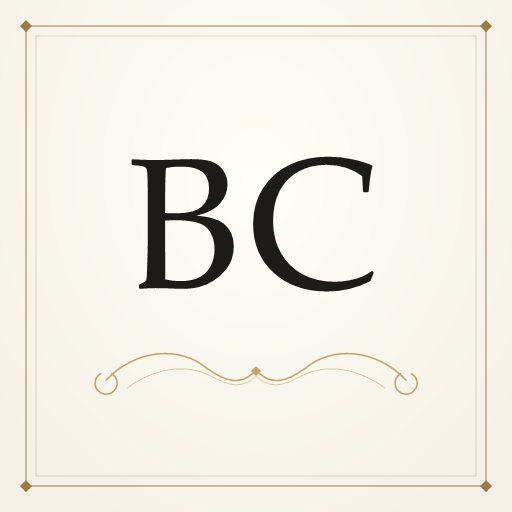
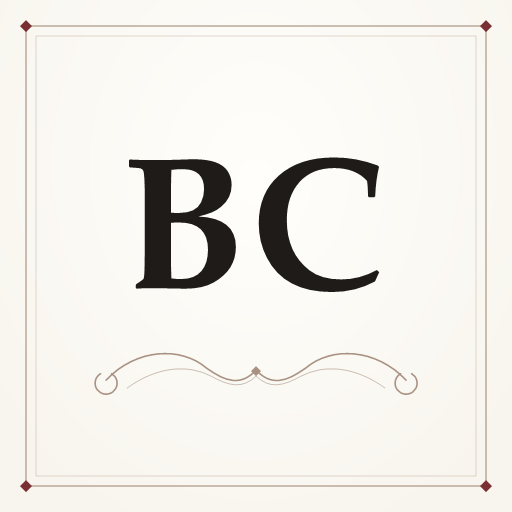
Edition theme: cream paper, oxblood accents, taupe ornaments, Cormorant headings, hedera dividers
Loaded after the Greek base stylesheet so it only overrides. Preview and icon re-rendered in the new palette.

diff --git a/index.html b/index.html
@@ -5,7 +5,10 @@
 <meta name="viewport" content="width=device-width, initial-scale=1">
 <title>Biblical Care &amp; Counseling &mdash; Midterm Review</title>
 <meta name="description" content="Midterm review for Biblical Care and Counseling: key figures, organizations, the history and generations of the biblical counseling movement, and the theological distinctives. Charts, flashcards, matching, quizzes and essay outlines.">
-<meta name="theme-color" content="#f5f1e8">
+<meta name="theme-color" content="#f8f5ee">
+<link rel="preconnect" href="https://fonts.googleapis.com">
+<link rel="preconnect" href="https://fonts.gstatic.com" crossorigin>
+<link href="https://fonts.googleapis.com/css2?family=Cormorant+Garamond:ital,wght@0,500;0,600;1,500&display=swap" rel="stylesheet">
 <link rel="icon" type="image/png" href="icon.png">
 <link rel="apple-touch-icon" href="icon.png">
 <meta property="og:type" content="website">
@@ -471,6 +474,72 @@ details.fold > .fold-body .note-sec{margin-bottom:0}
   .gitem{grid-template-columns:1fr;box-shadow:none;break-inside:avoid;padding:8px 10px}
   .gitem.ok{background:none}
 }
+
+/* ================= edition theme: cream paper, charcoal ink, oxblood accents =================
+   Loaded after the Greek base, so it only overrides. Ornaments go warm taupe;
+   oxblood is reserved for labels, active states, rules and buttons.               */
+:root{
+  --bg:#f8f5ee;
+  --surface:#fffefa;
+  --surface-2:#f5f0e7;
+  --ink:#1f1b18;
+  --ink-soft:#4a433d;
+  --muted:#8a8078;
+  --line:#e6dfd3;
+  --line-strong:#cfc4b4;
+  --gold:#7a2f33;
+  --gold-soft:#a99282;
+  --display:"Cormorant Garamond","Palatino Linotype",Palatino,Georgia,serif;
+}
+body{background-image:radial-gradient(900px 520px at 50% -8%,#fffefb 0%,rgba(255,254,251,0) 72%)}
+
+/* masthead */
+header{padding-block:52px 6px}
+.eyebrow{letter-spacing:.34em;margin-bottom:18px}
+h1{font-family:var(--display);font-weight:600;font-size:clamp(42px,7.4vw,70px);line-height:1.02;letter-spacing:.004em}
+.sub{font-size:16.5px;margin-top:12px}
+.orn{opacity:.85}
+
+/* headings in the display face */
+.h2,.note-sec h2,.gsec h2,.pcard h3,.casecard h3,details.fold > summary,details.outline summary,.prompt,.qtext,.result h3{font-family:var(--display)}
+.h2,.note-sec h2,.gsec h2{font-size:29px;font-weight:600;letter-spacing:.003em}
+.pcard h3{font-size:27px;font-weight:600;line-height:1.15}
+details.fold > summary{font-size:23px;font-weight:600}
+details.outline summary{font-size:20.5px;font-weight:600}
+.qtext{font-size:clamp(21px,3vw,25px);font-weight:500;line-height:1.4}
+.prompt{font-size:23px;font-weight:500}
+.note-sec h3,.box h4,.exam-tip b,.pcard .why b,.casecard .angles b,details.outline .body h4{letter-spacing:.22em}
+
+/* dividers: a hedera between two hairlines */
+.divider{max-width:250px;margin-top:8px}
+.divider span{font-size:0;line-height:0}
+.divider span::before{content:"\2767";font-size:18px;line-height:1;color:var(--gold);opacity:.8}
+
+/* a fine oxblood rule across the top of cards, like a bookplate */
+.pcard,.qcard,.result,.face,details.fold{border-top:2px solid var(--gold)}
+.pcard,.qcard,.result,details.fold,details.outline,.casecard,.box,.rule,.gitem{border-radius:2px}
+.pcard .tag{border-color:rgba(122,47,51,.35)}
+.pcard .tag.no{color:var(--muted);border-color:var(--line-strong)}
+.qtag{border-color:rgba(122,47,51,.35)}
+.pcard .q,.quote{border-left-color:var(--gold)}
+
+/* controls */
+.btn{border-radius:2px}
+.btn.primary{background:var(--gold);border-color:var(--gold);color:#fbf7f1}
+.btn.primary:hover{background:#5d2226;border-color:#5d2226;color:#fff}
+.seg{border-radius:2px}
+.tile.sel{box-shadow:0 0 0 2px rgba(122,47,51,.16)}
+.findres mark{background:rgba(122,47,51,.13)}
+.findrow input{border-radius:2px}
+.dots i.on{background:var(--gold)}
+.gprog .bar i,.progress i{background:var(--gold)}
+
+/* ornaments, softer */
+.rail .vine{opacity:.55}
+.rail .stem{opacity:.32}
+.rail .bead{opacity:.55}
+.card-corners .c{opacity:.6}
+.tl::before{opacity:.55}
 </style>
 </head>
 <body>
@@ -1713,7 +1782,7 @@ function mockQuestions(cfg){
 /* ================================================================ decks */
 function peopleDeck(){
   return shuffle(PEOPLE).map(function(p){
-    return {front:'<div class="mid" style="font-family:var(--serif);letter-spacing:.02em;text-transform:none">'+p.name+'</div><div class="hint">'+(p.bcm ? "Biblical counseling" : "Not BCM")+'</div>',
+    return {front:'<div class="mid" style="font-family:var(--display);font-weight:600;letter-spacing:.01em;text-transform:none;font-size:clamp(28px,6vw,40px)">'+p.name+'</div><div class="hint">'+(p.bcm ? "Biblical counseling" : "Not BCM")+'</div>',
             back:'<div class="bname">'+p.name+'</div><div class="bsound" style="margin-top:12px">'+p.why+'</div><div class="btr" style="margin-top:10px">'+p.gen+'</div>'};
   });
 }
@@ -1723,14 +1792,14 @@ function orgDeck(){
             back:'<div class="bname">'+o.abbr+' · '+o.role+'</div><div class="bsound" style="margin-top:12px">'+o.does.join(" ")+'</div><div class="btr" style="margin-top:10px">'+o.people+'</div>'};
   });
   var b = ORG_OTHER.map(function(o){
-    return {front:'<div class="mid" style="font-family:var(--serif);letter-spacing:.02em;text-transform:none;font-size:clamp(20px,4.6vw,28px)">'+o.abbr+'</div><div class="hint">'+o.role+'</div>',
+    return {front:'<div class="mid" style="font-family:var(--display);font-weight:600;letter-spacing:.01em;text-transform:none;font-size:clamp(24px,5vw,32px)">'+o.abbr+'</div><div class="hint">'+o.role+'</div>',
             back:'<div class="bname">'+o.abbr+'</div><div class="bsound" style="margin-top:12px">'+o.d+'</div>'};
   });
   return shuffle(a.concat(b));
 }
 function pairDeck(list){
   return shuffle(list).map(function(p){
-    return {front:'<div class="mid" style="font-family:var(--serif);letter-spacing:.01em;text-transform:none;font-size:clamp(19px,4.2vw,26px);line-height:1.35">'+p[0]+'</div>',
+    return {front:'<div class="mid" style="font-family:var(--display);font-weight:600;letter-spacing:.005em;text-transform:none;font-size:clamp(23px,4.6vw,30px);line-height:1.3">'+p[0]+'</div>',
             back:'<div class="bname">'+p[0]+'</div><div class="bsound" style="margin-top:12px">'+p[1]+'</div>'};
   });
 }
@@ -1884,7 +1953,7 @@ function makeQuiz(root, gen, opts){
     var body = $(".qbody", root);
     var pct = qs.length ? Math.round(score / qs.length * 100) : 0, v = verdictFor(pct);
     var html = '<div class="result card-corners">'+CORNERS+'<div class="big">'+score+'/'+qs.length+'</div><div class="rsub">'+pct+' percent</div>'+
-      '<h3 style="font-family:var(--serif);font-weight:400;font-size:26px;margin:16px 0 0">'+v.t+'</h3><p class="verdict">'+v.a+'</p>';
+      '<h3 style="font-family:var(--display);font-weight:600;font-size:31px;margin:16px 0 0">'+v.t+'</h3><p class="verdict">'+v.a+'</p>';
     if(opts.showTopic){
       var rows = Object.keys(TOPIC_NAMES).map(function(tp){
         var mine = qs.filter(function(q){ return q.tp === tp; }); if(!mine.length) return "";

diff --git a/src/01-theme.css b/src/01-theme.css
@@ -1,0 +1,66 @@
+
+/* ================= edition theme: cream paper, charcoal ink, oxblood accents =================
+   Loaded after the Greek base, so it only overrides. Ornaments go warm taupe;
+   oxblood is reserved for labels, active states, rules and buttons.               */
+:root{
+  --bg:#f8f5ee;
+  --surface:#fffefa;
+  --surface-2:#f5f0e7;
+  --ink:#1f1b18;
+  --ink-soft:#4a433d;
+  --muted:#8a8078;
+  --line:#e6dfd3;
+  --line-strong:#cfc4b4;
+  --gold:#7a2f33;
+  --gold-soft:#a99282;
+  --display:"Cormorant Garamond","Palatino Linotype",Palatino,Georgia,serif;
+}
+body{background-image:radial-gradient(900px 520px at 50% -8%,#fffefb 0%,rgba(255,254,251,0) 72%)}
+
+/* masthead */
+header{padding-block:52px 6px}
+.eyebrow{letter-spacing:.34em;margin-bottom:18px}
+h1{font-family:var(--display);font-weight:600;font-size:clamp(42px,7.4vw,70px);line-height:1.02;letter-spacing:.004em}
+.sub{font-size:16.5px;margin-top:12px}
+.orn{opacity:.85}
+
+/* headings in the display face */
+.h2,.note-sec h2,.gsec h2,.pcard h3,.casecard h3,details.fold > summary,details.outline summary,.prompt,.qtext,.result h3{font-family:var(--display)}
+.h2,.note-sec h2,.gsec h2{font-size:29px;font-weight:600;letter-spacing:.003em}
+.pcard h3{font-size:27px;font-weight:600;line-height:1.15}
+details.fold > summary{font-size:23px;font-weight:600}
+details.outline summary{font-size:20.5px;font-weight:600}
+.qtext{font-size:clamp(21px,3vw,25px);font-weight:500;line-height:1.4}
+.prompt{font-size:23px;font-weight:500}
+.note-sec h3,.box h4,.exam-tip b,.pcard .why b,.casecard .angles b,details.outline .body h4{letter-spacing:.22em}
+
+/* dividers: a hedera between two hairlines */
+.divider{max-width:250px;margin-top:8px}
+.divider span{font-size:0;line-height:0}
+.divider span::before{content:"\2767";font-size:18px;line-height:1;color:var(--gold);opacity:.8}
+
+/* a fine oxblood rule across the top of cards, like a bookplate */
+.pcard,.qcard,.result,.face,details.fold{border-top:2px solid var(--gold)}
+.pcard,.qcard,.result,details.fold,details.outline,.casecard,.box,.rule,.gitem{border-radius:2px}
+.pcard .tag{border-color:rgba(122,47,51,.35)}
+.pcard .tag.no{color:var(--muted);border-color:var(--line-strong)}
+.qtag{border-color:rgba(122,47,51,.35)}
+.pcard .q,.quote{border-left-color:var(--gold)}
+
+/* controls */
+.btn{border-radius:2px}
+.btn.primary{background:var(--gold);border-color:var(--gold);color:#fbf7f1}
+.btn.primary:hover{background:#5d2226;border-color:#5d2226;color:#fff}
+.seg{border-radius:2px}
+.tile.sel{box-shadow:0 0 0 2px rgba(122,47,51,.16)}
+.findres mark{background:rgba(122,47,51,.13)}
+.findrow input{border-radius:2px}
+.dots i.on{background:var(--gold)}
+.gprog .bar i,.progress i{background:var(--gold)}
+
+/* ornaments, softer */
+.rail .vine{opacity:.55}
+.rail .stem{opacity:.32}
+.rail .bead{opacity:.55}
+.card-corners .c{opacity:.6}
+.tl::before{opacity:.55}

diff --git a/src/03a-core.js b/src/03a-core.js
@@ -132,7 +132,7 @@ function mockQuestions(cfg){
 /* ================================================================ decks */
 function peopleDeck(){
   return shuffle(PEOPLE).map(function(p){
-    return {front:'<div class="mid" style="font-family:var(--serif);letter-spacing:.02em;text-transform:none">'+p.name+'</div><div class="hint">'+(p.bcm ? "Biblical counseling" : "Not BCM")+'</div>',
+    return {front:'<div class="mid" style="font-family:var(--display);font-weight:600;letter-spacing:.01em;text-transform:none;font-size:clamp(28px,6vw,40px)">'+p.name+'</div><div class="hint">'+(p.bcm ? "Biblical counseling" : "Not BCM")+'</div>',
             back:'<div class="bname">'+p.name+'</div><div class="bsound" style="margin-top:12px">'+p.why+'</div><div class="btr" style="margin-top:10px">'+p.gen+'</div>'};
   });
 }
@@ -142,14 +142,14 @@ function orgDeck(){
             back:'<div class="bname">'+o.abbr+' · '+o.role+'</div><div class="bsound" style="margin-top:12px">'+o.does.join(" ")+'</div><div class="btr" style="margin-top:10px">'+o.people+'</div>'};
   });
   var b = ORG_OTHER.map(function(o){
-    return {front:'<div class="mid" style="font-family:var(--serif);letter-spacing:.02em;text-transform:none;font-size:clamp(20px,4.6vw,28px)">'+o.abbr+'</div><div class="hint">'+o.role+'</div>',
+    return {front:'<div class="mid" style="font-family:var(--display);font-weight:600;letter-spacing:.01em;text-transform:none;font-size:clamp(24px,5vw,32px)">'+o.abbr+'</div><div class="hint">'+o.role+'</div>',
             back:'<div class="bname">'+o.abbr+'</div><div class="bsound" style="margin-top:12px">'+o.d+'</div>'};
   });
   return shuffle(a.concat(b));
 }
 function pairDeck(list){
   return shuffle(list).map(function(p){
-    return {front:'<div class="mid" style="font-family:var(--serif);letter-spacing:.01em;text-transform:none;font-size:clamp(19px,4.2vw,26px);line-height:1.35">'+p[0]+'</div>',
+    return {front:'<div class="mid" style="font-family:var(--display);font-weight:600;letter-spacing:.005em;text-transform:none;font-size:clamp(23px,4.6vw,30px);line-height:1.3">'+p[0]+'</div>',
             back:'<div class="bname">'+p[0]+'</div><div class="bsound" style="margin-top:12px">'+p[1]+'</div>'};
   });
 }

diff --git a/src/test.js b/src/test.js
@@ -222,6 +222,12 @@ ok((html.match(/<script>/g) || []).length === 1, 'a single script block');
   ok(open === close, t + ' tags balanced', open + ' vs ' + close);
 });
 ok(html.includes('id="flourish"') && html.includes('class="rail left"'), 'Greek ornaments and side rails carried over');
+const themeAt = html.indexOf('edition theme'), baseAt = html.indexOf('--gold:#9a7a44');
+ok(themeAt > baseAt && baseAt > 0, 'the edition theme is loaded after the Greek base, so it overrides it');
+ok(/--gold:#7a2f33/.test(html) && /--gold-soft:#a99282/.test(html), 'oxblood accent and taupe ornaments defined');
+ok(/fonts\.googleapis\.com\/css2\?family=Cormorant\+Garamond/.test(html) && /"Cormorant Garamond","Palatino Linotype"/.test(html), 'display face loads with a Palatino fallback');
+ok(/content:"\\2767"/.test(html), 'dividers use the hedera');
+ok(!/var\(--serif\);font-weight:400;font-size:26px/.test(src), 'result verdict uses the display face');
 ok(html.includes('og:image') && html.includes('bcc-midterm'), 'link preview metadata');
 ok(!/�/.test(html), 'no broken characters');
 console.log('  file size: ' + (fs.statSync(path.join(ROOT, 'index.html')).size / 1024).toFixed(1) + ' KB');

diff --git a/src/01-meta.html b/src/01-meta.html
@@ -5,7 +5,10 @@
 <meta name="viewport" content="width=device-width, initial-scale=1">
 <title>Biblical Care &amp; Counseling &mdash; Midterm Review</title>
 <meta name="description" content="Midterm review for Biblical Care and Counseling: key figures, organizations, the history and generations of the biblical counseling movement, and the theological distinctives. Charts, flashcards, matching, quizzes and essay outlines.">
-<meta name="theme-color" content="#f5f1e8">
+<meta name="theme-color" content="#f8f5ee">
+<link rel="preconnect" href="https://fonts.googleapis.com">
+<link rel="preconnect" href="https://fonts.gstatic.com" crossorigin>
+<link href="https://fonts.googleapis.com/css2?family=Cormorant+Garamond:ital,wght@0,500;0,600;1,500&display=swap" rel="stylesheet">
 <link rel="icon" type="image/png" href="icon.png">
 <link rel="apple-touch-icon" href="icon.png">
 <meta property="og:type" content="website">

diff --git a/src/03b-ui.js b/src/03b-ui.js
@@ -142,7 +142,7 @@ function makeQuiz(root, gen, opts){
     var body = $(".qbody", root);
     var pct = qs.length ? Math.round(score / qs.length * 100) : 0, v = verdictFor(pct);
     var html = '<div class="result card-corners">'+CORNERS+'<div class="big">'+score+'/'+qs.length+'</div><div class="rsub">'+pct+' percent</div>'+
-      '<h3 style="font-family:var(--serif);font-weight:400;font-size:26px;margin:16px 0 0">'+v.t+'</h3><p class="verdict">'+v.a+'</p>';
+      '<h3 style="font-family:var(--display);font-weight:600;font-size:31px;margin:16px 0 0">'+v.t+'</h3><p class="verdict">'+v.a+'</p>';
     if(opts.showTopic){
       var rows = Object.keys(TOPIC_NAMES).map(function(tp){
         var mine = qs.filter(function(q){ return q.tp === tp; }); if(!mine.length) return "";
